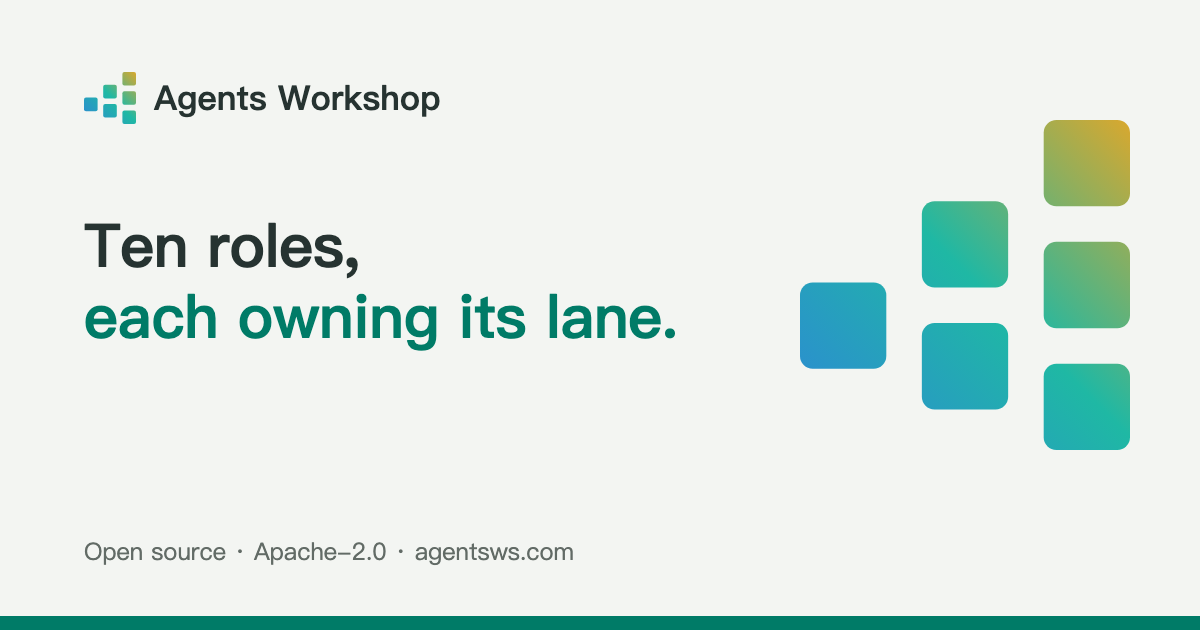
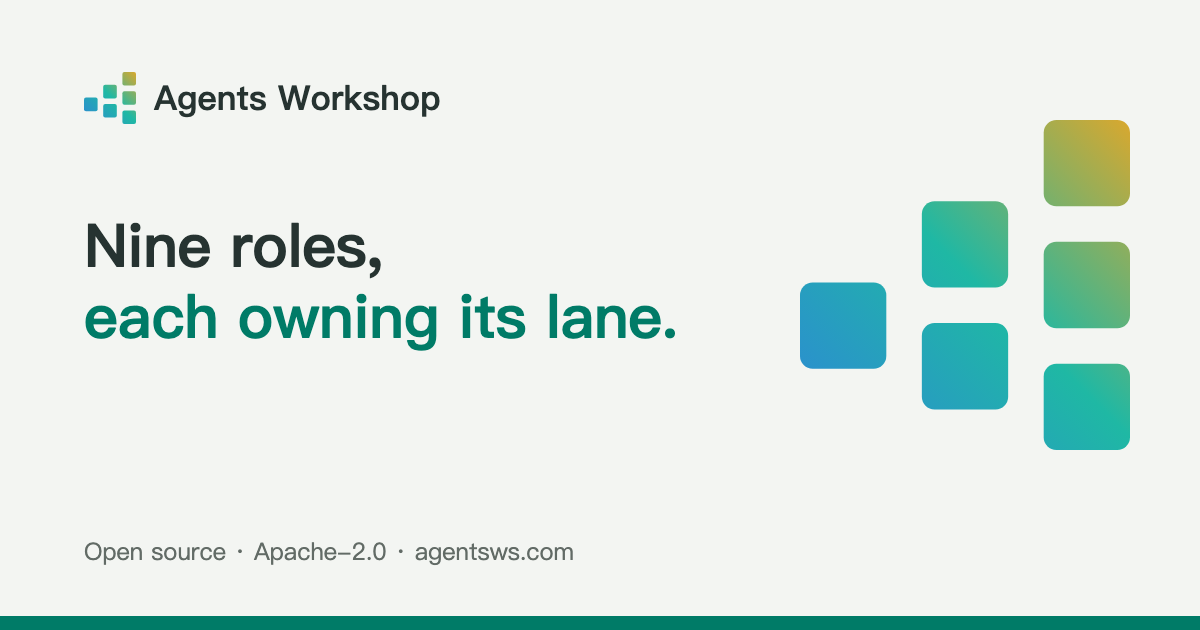
feat(site): 岗位清单同步到九个出厂岗位，岗位页截图从演示世界重拍（WP344）
负责人自 WP234 起是身份标记不再列；名字照 packages/roles/positions 的中英 name；
社媒运营（Reddit）、网站运营（AI 回答监测）标新。

Changed region(s): [[0.0617, 0.3317, 0.3392, 0.4524]]

diff --git a/apps/site/src/i18n/roles.ts b/apps/site/src/i18n/roles.ts
@@ -1,11 +1,11 @@
 /**
- * 十个岗位（docs/87 §3 第 2 屏、docs/50 岗位总表）：首页岗位墙与「岗位」页共用这一份。
- * 岗位名照 WP196：最高岗位叫「负责人」（Lead）。
+ * 九个出厂岗位（`packages/roles/positions/*.yml`，名字照那里的中英 name）：首页岗位墙与「岗位」页共用这一份。
+ * WP344：负责人自 WP234 起是身份标记、不是工作岗位，岗位墙不再列；`dtc-ops` 已拆成网站运营与客服（SUPERSEDED），也不列。
+ * 每个岗位一句话 + 会出的卡 + 要连什么，只写 10-15 已合进 main 的能力。
  */
 import type { Lang } from './common.js'
 
 export type RoleIcon =
-  | 'crown'
   | 'headset'
   | 'star'
   | 'share'
@@ -17,7 +17,10 @@ export type RoleIcon =
   | 'news'
 
 export interface Role {
+  /** 页内锚点（`/roles/#support`），沿用 WP197 的叫法，别改——外面可能有人链过来。 */
   id: string
+  /** 对应的出厂岗位（`packages/roles/positions/<position>.yml`），测试拿它对名字。 */
+  position: string
   icon: RoleIcon
   name: string
   line: string
@@ -30,169 +33,173 @@ export interface Role {
 
 const zh: Role[] = [
   {
-    id: 'lead',
-    icon: 'crown',
-    name: '负责人',
-    line: '每天一张日报，要拍板的都在这',
-    cards: ['日报', '超授权的报价与花费', '岗位之间的交接'],
-    connects: ['不用单独连，看全部岗位'],
-  },
-  {
     id: 'support',
+    position: 'customer-care',
     icon: 'headset',
     name: '客服',
-    line: '邮件、聊天窗、Amazon 消息，先起草',
+    line: '邮件、网站聊天、Amazon 消息，先起草再给你发',
     cards: ['回信', '退款 / 补发', '改地址'],
     connects: ['客服邮箱', 'Shopify', '网站聊天窗', 'Amazon 买家消息'],
   },
   {
     id: 'kol',
+    position: 'kol-marketing',
     icon: 'star',
     name: '红人营销',
-    line: '找人、体检、开发信，跟到交付',
-    cards: ['开发信', '报价与合作条款', '内容审核'],
-    connects: ['YouTube', 'Instagram', 'TikTok', 'X', 'Facebook', '浏览器插件'],
+    line: '找红人、打分、写建联信，跟到交付',
+    cards: ['建联信', '报价与合作条款', '内容审核'],
+    connects: ['YouTube', 'Instagram', 'TikTok', '浏览器插件'],
   },
   {
     id: 'social',
+    position: 'social-media',
     icon: 'share',
     name: '社媒运营',
-    line: '排内容、回评论、管社群',
-    cards: ['发帖', '回评论', '社群公告'],
-    connects: ['Facebook 主页', 'Instagram', 'TikTok', 'YouTube', 'LinkedIn', 'Discord / Telegram'],
+    line: '排内容、回评论；Reddit 收件箱和版块天天巡查',
+    cards: ['发帖', '回评论', 'Reddit 回帖（你点发送）'],
+    connects: ['TikTok', 'YouTube', 'Facebook', 'Instagram', 'Reddit（插件 + 你的登录）'],
+    isNew: true,
   },
   {
-    id: 'b2b',
-    icon: 'globe',
-    name: 'B2B 外贸',
-    line: '询盘分级，报价按授权走',
-    cards: ['首封回信', '报价单（PDF）', '寄样通知', '业务员交接'],
-    connects: ['业务邮箱', 'WhatsApp Business', '发信域名'],
+    id: 'store',
+    position: 'web-ops',
+    icon: 'store',
+    name: '网站运营',
+    line: '商品、促销、邮件；盯着 AI 怎么回答你的品类',
+    cards: ['改价 / 促销', '邮件营销群发', '发货与履约'],
+    connects: ['Shopify', 'Search Console', 'GA4', 'Klaviyo'],
     isNew: true,
   },
   {
     id: 'ads',
+    position: 'ads',
     icon: 'mega',
     name: '投放',
-    line: '盯花费和 ROAS，越线先停',
-    cards: ['调预算', '暂停广告组', '周报'],
-    connects: ['Meta 广告', 'Google Ads', 'TikTok 广告', 'X 广告'],
-  },
-  {
-    id: 'store',
-    icon: 'store',
-    name: '网站运营',
-    line: '订单、库存、转化，异常先报',
-    cards: ['改价 / 促销', '发货与履约', '邮件营销群发'],
-    connects: ['Shopify', 'Search Console', 'GA4', 'Klaviyo'],
+    line: 'Google / Meta 广告：盯花费、写新素材，改动先预览',
+    cards: ['止损暂停', '新标题与描述', '上传表（预览后再提交）'],
+    connects: ['Google Ads', 'Meta 广告', '浏览器插件（你的登录）'],
   },
   {
     id: 'site',
+    position: 'site',
     icon: 'layout',
     name: '建站',
-    line: '改页面、上新品，改前给你看',
-    cards: ['页面改动', '上新品', '跳转与收录'],
-    connects: ['Shopify'],
+    line: '在 Shopify 上搭页面、换主题，改前给你看',
+    cards: ['选主题', '页面改动', '上线检查'],
+    connects: ['Shopify（浏览器里授权）'],
   },
   {
-    id: 'design',
-    icon: 'palette',
-    name: '设计',
-    line: '照你的品牌规范出图',
-    cards: ['出图', '品牌规范（DESIGN.md）更新'],
-    connects: ['用你的官网与品牌档案'],
+    id: 'b2b',
+    position: 'b2b',
+    icon: 'globe',
+    name: 'B2B',
+    line: '询盘分级，报价按授权走，跟到出货',
+    cards: ['首封回信', '报价单（PDF）', '寄样通知', '业务员交接'],
+    connects: ['业务邮箱', 'WhatsApp Business', '发信域名'],
   },
   {
     id: 'pr',
+    position: 'pr',
     icon: 'news',
     name: '公共关系',
-    line: '媒体名单、稿件，口径一致',
-    cards: ['媒体稿', '采访回复'],
-    connects: ['业务邮箱'],
+    line: '新闻稿、论坛露出、全网提及与负面预警',
+    cards: ['媒体稿', '论坛回帖', '负面预警'],
+    connects: ['业务邮箱', 'Reddit 与论坛的公开内容'],
+  },
+  {
+    id: 'design',
+    position: 'design',
+    icon: 'palette',
+    name: '设计',
+    line: '照你的品牌规范出图：网站、Amazon、社媒、广告',
+    cards: ['出图', '广告素材批量出图'],
+    connects: ['你的官网与品牌档案'],
   },
 ]
 
 const en: Role[] = [
   {
-    id: 'lead',
-    icon: 'crown',
-    name: 'Lead',
-    line: 'A daily brief; every decision in one place',
-    cards: ['Daily brief', 'Over-limit quotes and spend', 'Handoffs between roles'],
-    connects: ['Nothing to connect — sees every role'],
-  },
-  {
     id: 'support',
+    position: 'customer-care',
     icon: 'headset',
-    name: 'Support',
-    line: 'Email, chat, Amazon messages — drafted first',
+    name: 'Customer Care',
+    line: 'Email, site chat, Amazon messages — drafted for you to send',
     cards: ['Replies', 'Refunds / reships', 'Address changes'],
     connects: ['Support mailbox', 'Shopify', 'Website chat', 'Amazon buyer messages'],
   },
   {
     id: 'kol',
+    position: 'kol-marketing',
     icon: 'star',
-    name: 'Influencers',
-    line: 'Find, vet, pitch, follow through',
+    name: 'Creator Marketing',
+    line: 'Find and score creators, pitch, follow through',
     cards: ['Pitches', 'Quotes and terms', 'Content review'],
-    connects: ['YouTube', 'Instagram', 'TikTok', 'X', 'Facebook', 'Browser extension'],
+    connects: ['YouTube', 'Instagram', 'TikTok', 'Browser extension'],
   },
   {
     id: 'social',
+    position: 'social-media',
     icon: 'share',
-    name: 'Social',
-    line: 'Plan posts, reply, run communities',
-    cards: ['Posts', 'Comment replies', 'Community announcements'],
-    connects: ['Facebook Page', 'Instagram', 'TikTok', 'YouTube', 'LinkedIn', 'Discord / Telegram'],
+    name: 'Social Media',
+    line: 'Plan posts, reply; checks your Reddit inbox and subreddits daily',
+    cards: ['Posts', 'Comment replies', 'Reddit replies (you hit send)'],
+    connects: ['TikTok', 'YouTube', 'Facebook', 'Instagram', 'Reddit (extension + your login)'],
+    isNew: true,
   },
   {
-    id: 'b2b',
-    icon: 'globe',
-    name: 'B2B',
-    line: 'Grade inquiries; quotes follow your limits',
-    cards: ['First replies', 'Quotes (PDF)', 'Sample notices', 'Rep handovers'],
-    connects: ['Sales mailbox', 'WhatsApp Business', 'Sending domain'],
+    id: 'store',
+    position: 'web-ops',
+    icon: 'store',
+    name: 'Web Operations',
+    line: 'Products, promos, email — and how AI answers about your category',
+    cards: ['Price / promo changes', 'Email campaigns', 'Fulfilment'],
+    connects: ['Shopify', 'Search Console', 'GA4', 'Klaviyo'],
     isNew: true,
   },
   {
     id: 'ads',
+    position: 'ads',
     icon: 'mega',
-    name: 'Ads',
-    line: 'Watch spend and ROAS; pause when it crosses the line',
-    cards: ['Budget changes', 'Pause ad sets', 'Weekly report'],
-    connects: ['Meta Ads', 'Google Ads', 'TikTok Ads', 'X Ads'],
-  },
-  {
-    id: 'store',
-    icon: 'store',
-    name: 'Store ops',
-    line: 'Orders, stock, conversion; flags anomalies',
-    cards: ['Price / promo changes', 'Fulfilment', 'Email campaigns'],
-    connects: ['Shopify', 'Search Console', 'GA4', 'Klaviyo'],
+    name: 'Paid Ads',
+    line: 'Google and Meta: watch spend, write new copy, preview every change',
+    cards: ['Stop-loss pauses', 'New headlines and descriptions', 'Upload sheets (preview first)'],
+    connects: ['Google Ads', 'Meta Ads', 'Browser extension (your login)'],
   },
   {
     id: 'site',
+    position: 'site',
     icon: 'layout',
-    name: 'Site builder',
-    line: 'Edits pages, launches products — shows you first',
-    cards: ['Page edits', 'Product launches', 'Redirects and indexing'],
-    connects: ['Shopify'],
+    name: 'Site Building',
+    line: 'Builds pages and switches themes on Shopify — shows you first',
+    cards: ['Theme choice', 'Page edits', 'Launch checklist'],
+    connects: ['Shopify (authorise in the browser)'],
   },
   {
-    id: 'design',
-    icon: 'palette',
-    name: 'Design',
-    line: 'On-brand, from your brand spec',
-    cards: ['Images', 'Brand spec (DESIGN.md) updates'],
-    connects: ['Your website and brand profile'],
+    id: 'b2b',
+    position: 'b2b',
+    icon: 'globe',
+    name: 'B2B',
+    line: 'Grade inquiries, quote within your limits, follow orders through',
+    cards: ['First replies', 'Quotes (PDF)', 'Sample notices', 'Rep handovers'],
+    connects: ['Sales mailbox', 'WhatsApp Business', 'Sending domain'],
   },
   {
     id: 'pr',
+    position: 'pr',
     icon: 'news',
-    name: 'PR',
-    line: 'Media lists, pitches, one voice',
-    cards: ['Press pitches', 'Interview replies'],
-    connects: ['Sales mailbox'],
+    name: 'Public Relations',
+    line: 'Press releases, forum presence, mentions and early warnings',
+    cards: ['Press pitches', 'Forum replies', 'Negative-mention alerts'],
+    connects: ['Sales mailbox', 'Public Reddit and forum posts'],
+  },
+  {
+    id: 'design',
+    position: 'design',
+    icon: 'palette',
+    name: 'Design',
+    line: 'On-brand images for your site, Amazon, social and ads',
+    cards: ['Images', 'Ad creative in batches'],
+    connects: ['Your website and brand profile'],
   },
 ]
 
@@ -203,12 +210,12 @@ const pageZh = {
   meta: {
     title: '岗位 · Agents 工坊',
     description:
-      '负责人、客服、红人营销、社媒、B2B 外贸、投放、网站运营、建站、设计、公共关系：十个岗位各管一摊，要紧的事先出卡给你批。',
+      '客服、红人营销、社媒运营、网站运营、投放、建站、B2B、公共关系、设计：九个岗位各管一摊，要拍板的事先出卡给你批。',
   },
   eyebrow: '岗位',
-  title: '十个岗位，各管一摊。',
+  title: '九个岗位，各管一摊。',
   sub: '每个岗位有自己的职责、记忆和权限。要发出去、要花钱的，先出一张卡。',
-  status: '客服、红人营销、B2B 外贸最完整；其余岗位在内测里一个个打磨，进度都写在更新日志里。',
+  status: '都在内测中，一个个打磨；进度写在更新日志里。',
   cardsLabel: '会出的卡',
   connectsLabel: '要连什么',
   featured: '在工作台里长这样',
@@ -226,13 +233,12 @@ const pageEn: RolesPageCopy = {
   meta: {
     title: 'Roles · Agents Workshop',
     description:
-      'Lead, Support, Influencers, Social, B2B, Ads, Store ops, Site builder, Design, PR: ten roles, each owning its lane — and anything that matters becomes a card for you first.',
+      'Customer Care, Creator Marketing, Social Media, Web Operations, Paid Ads, Site Building, B2B, Public Relations, Design: nine roles, each owning its lane — anything that needs your call becomes a card first.',
   },
   eyebrow: 'Roles',
-  title: 'Ten roles, each owning its lane.',
+  title: 'Nine roles, each owning its lane.',
   sub: 'Every role has its own duties, memory and permissions. Anything that goes out or costs money becomes a card first.',
-  status:
-    'Support, Influencers and B2B are the most complete; the rest are being polished one by one during the beta — progress is in the changelog.',
+  status: 'All in beta and being polished one by one — progress is in the changelog.',
   cardsLabel: 'Cards it hands you',
   connectsLabel: 'What it connects to',
   featured: 'What it looks like in the app',
